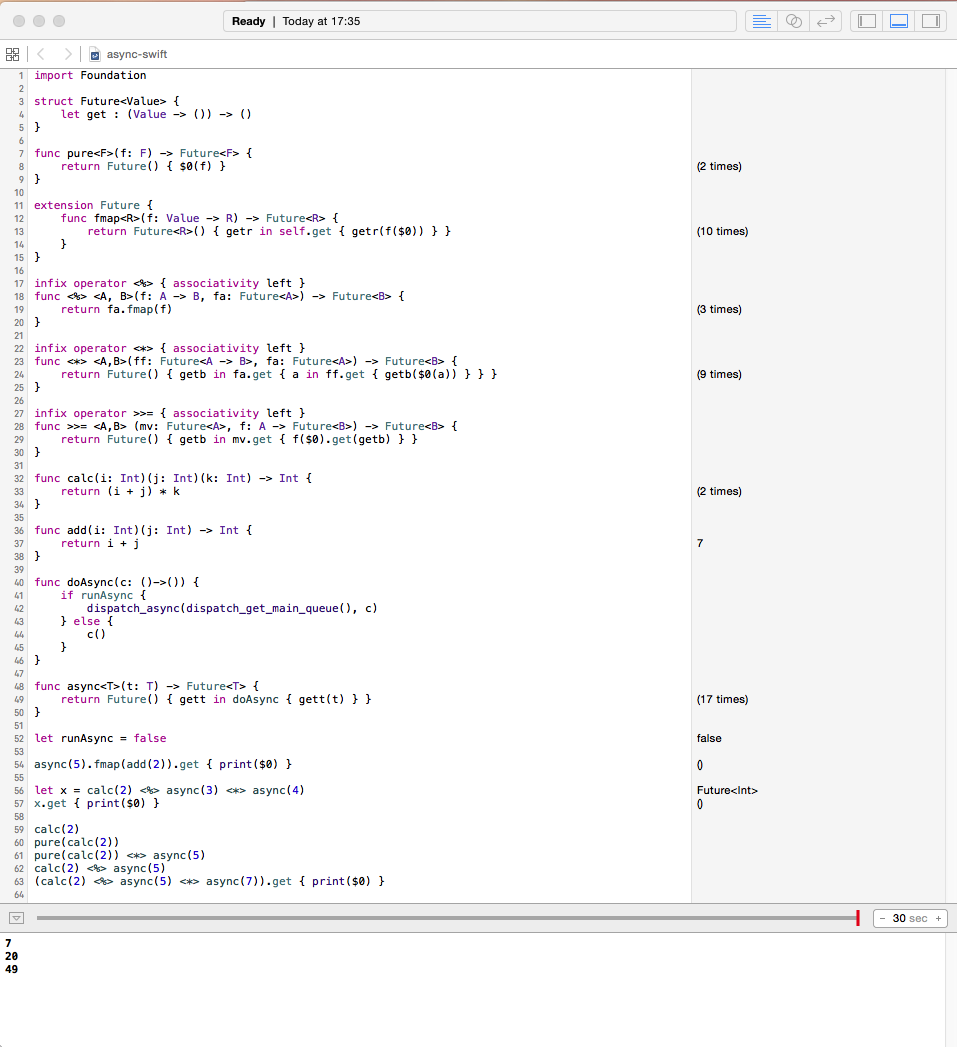
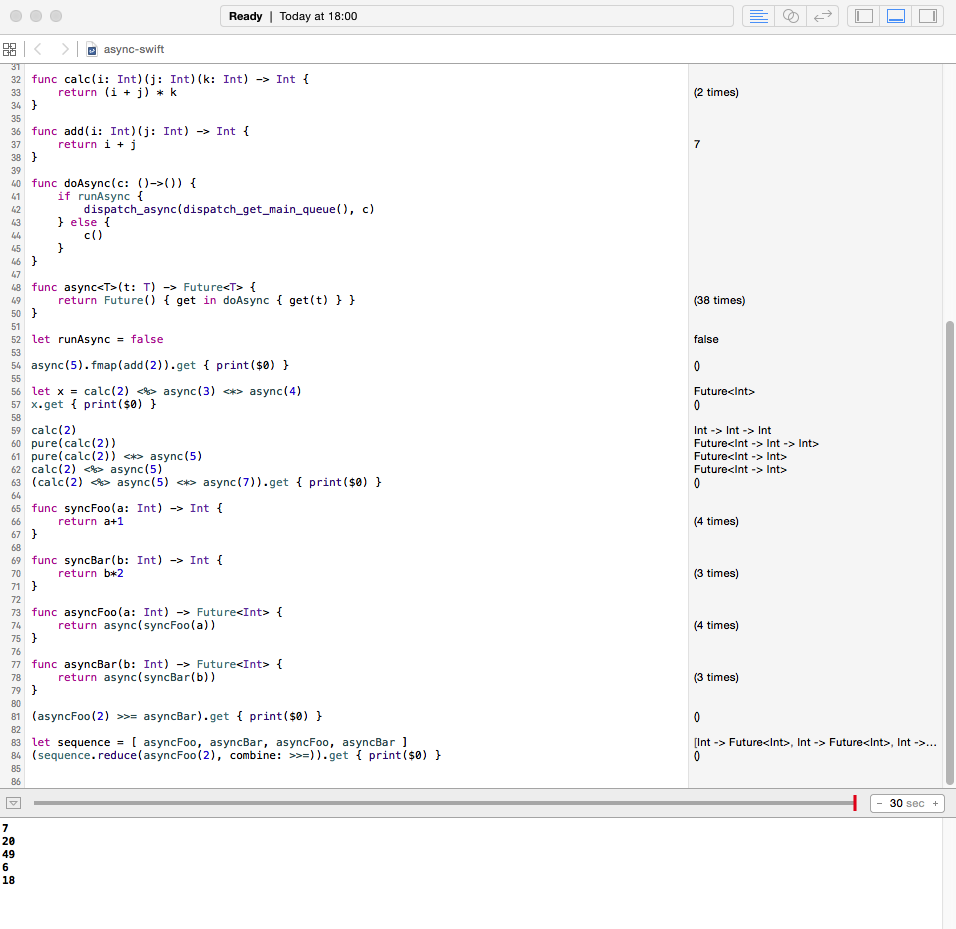
Put back the monadic binding examples

diff --git a/async-swift.playground/Contents.swift b/async-swift.playground/Contents.swift
@@ -1,5 +1,3 @@
-//: Playground - noun: a place where people can play
-
 import Foundation
 
 struct Future<Value> {
@@ -48,7 +46,7 @@ func doAsync(c: ()->()) {
 }
 
 func async<T>(t: T) -> Future<T> {
-    return Future() { gett in doAsync { gett(t) } }
+    return Future() { get in doAsync { get(t) } }
 }
 
 let runAsync = false
@@ -63,3 +61,25 @@ pure(calc(2))
 pure(calc(2)) <*> async(5)
 calc(2) <%> async(5)
 (calc(2) <%> async(5) <*> async(7)).get { print($0) }
+
+func syncFoo(a: Int) -> Int {
+    return a+1
+}
+
+func syncBar(b: Int) -> Int {
+    return b*2
+}
+
+func asyncFoo(a: Int) -> Future<Int> {
+    return async(syncFoo(a))
+}
+
+func asyncBar(b: Int) -> Future<Int> {
+    return async(syncBar(b))
+}
+
+(asyncFoo(2) >>= asyncBar).get { print($0) }
+
+let sequence = [ asyncFoo, asyncBar, asyncFoo, asyncBar ]
+(sequence.reduce(asyncFoo(2), combine: >>=)).get { print($0) }
+
